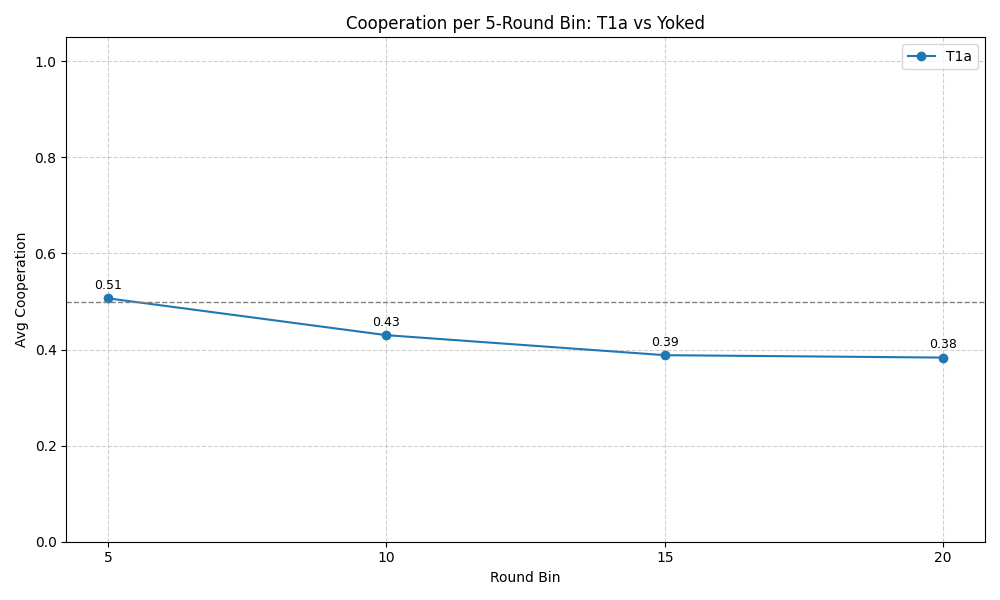
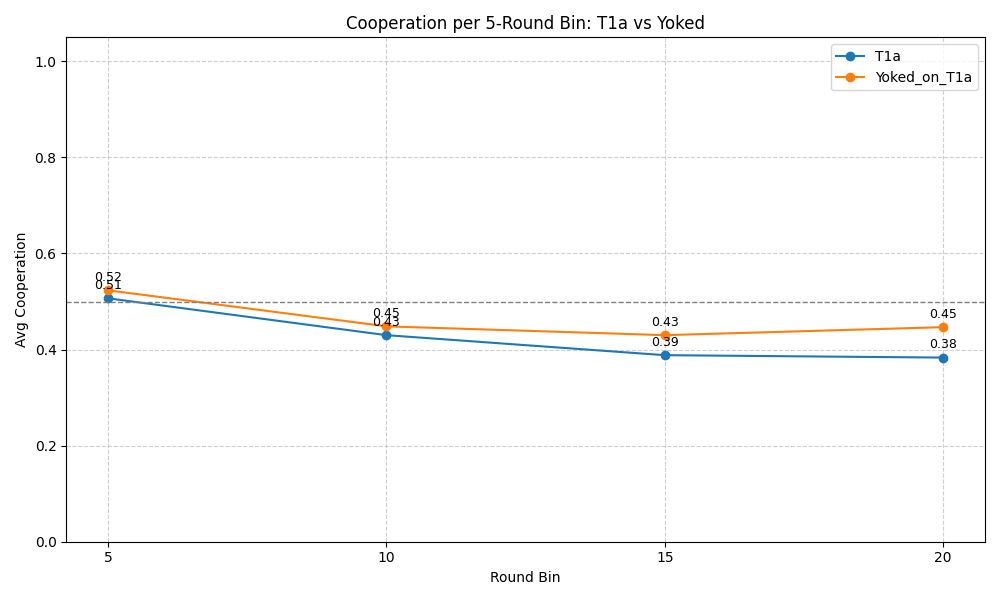
hfghghdd

Changed region(s): [[0.248, 0.51, 0.961, 0.57], [0.837, 0.06, 0.992, 0.15], [0.093, 0.45, 0.217, 0.51]]

diff --git a/final_analysis.py b/final_analysis.py
@@ -1,0 +1,274 @@
+from pathlib import Path
+import pandas as pd
+import numpy as np
+import matplotlib.pyplot as plt
+
+# === Configuration ===
+DATA_DIR = Path.home() / "Downloads" / "Stochastic Vote Data"
+TREATMENT_FILES = [
+    (DATA_DIR / "VR_C_r_part2_2025-07-28.csv", "OnlyRisk"),
+    (DATA_DIR / "VR_C_s_plus1_part2_2025-07-28.csv", "OnlySafe"),
+    (DATA_DIR / "VR_T1a_plus1_part2_2025-07-28.csv", "T1a"),
+    (DATA_DIR / "VR_T1b_part2_2025-07-28.csv", "T1b"),
+    (DATA_DIR / "VR_Yoked_T1a_all_apps_wide_2025-07-29.csv", "Yoked_on_T1a"),
+]
+
+# === 1. Load & tag datasets ===
+def load_and_tag(files):
+    df_list = []
+    for path, treatment in files:
+        temp = pd.read_csv(path)
+        temp['treatment'] = treatment
+        df_list.append(temp)
+    combined = pd.concat(df_list, ignore_index=True)
+    return combined, df_list
+
+# === 2. Filtering ===
+def filter_data(df, min_round=20):
+    df = df[df['player.action'].notna()]
+    # remove flagged participants
+    if 'player.remove' in df.columns:
+        flagged = df.loc[df['player.remove'] == 1, 'participant.code'].unique()
+        df = df[~df['participant.code'].isin(flagged)]
+    # drop if never reached min_round
+    if 'subsession.round_number' in df.columns:
+        df = df.groupby('participant.code').filter(lambda d: d['subsession.round_number'].max() >= min_round)
+    # ensure at least one non-na total_money
+    if 'player.total_money' in df.columns:
+        df = df.groupby('participant.code').filter(lambda d: d['player.total_money'].notna().any())
+    return df.reset_index(drop=True)
+
+# === 3. Feature engineering ===
+def engineer_features(df):
+    df = df.copy()
+    df['Cooperated'] = df['player.action'].map({'C': 1, 'D': 0})
+    if 'player.vote' in df.columns:
+        df['Chose_Risk'] = df['player.vote'].map({'Matrix B': 1, 'Matrix A': 0})
+    else:
+        df['Chose_Risk'] = np.nan
+    # 5-round bins
+    df['round_bin'] = ((df['subsession.round_number'] - 1) // 5 + 1) * 5
+    return df
+
+# === Plot helpers ===
+def annotate_bars(ax, dy=0.02, fmt="{:.2f}"):
+    for p in ax.patches:
+        ax.annotate(fmt.format(p.get_height()),
+                    (p.get_x() + p.get_width() / 2., p.get_height() + dy),
+                    ha='center', va='bottom', fontsize=9)
+
+
+def plot_line(df, group_cols, value_col, title, xlabel, ylabel,
+              bins=None, linestyle_map=None, save_path=None):
+    fig, ax = plt.subplots(figsize=(10, 6))
+    if bins:
+        df = df.copy()
+        df['bin'] = ((df['subsession.round_number'] - 1) // bins + 1) * bins
+        x_col = 'bin'
+        ax.axhline(0.5, color='gray', linestyle='--', linewidth=1)
+    else:
+        x_col = 'subsession.round_number'
+    for name, sub in df.groupby(group_cols):
+        series = sub.groupby(x_col)[value_col].mean()
+        label = ' – '.join(map(str, name)) if isinstance(name, tuple) else name
+        linestyle = '-' if not linestyle_map else None
+        if linestyle_map and isinstance(name, tuple):
+            game = name[group_cols.index('group.current_game')]
+            linestyle = linestyle_map.get(game, '-')
+        marker = 'o' if bins else None
+        ax.plot(series.index, series.values,
+                label=label, marker=marker, linestyle=linestyle)
+        for x, y in zip(series.index, series.values):
+            ax.text(x, y + 0.02, f"{y:.2f}", ha='center', fontsize=9)
+    ax.set_xlabel(xlabel)
+    ax.set_ylabel(ylabel)
+    ax.set_title(title)
+    ax.set_ylim(0, 1.05)
+    ax.grid(True, linestyle='--', alpha=0.6)
+    ax.legend()
+    plt.xticks(sorted(df[x_col].unique()))
+    plt.tight_layout()
+    if save_path:
+        plt.savefig(save_path)
+    plt.show()
+
+
+def plot_bar(df, index_cols, value_col, title, xlabel, ylabel,
+              save_path=None, color_map=None):
+    summary = df.groupby(index_cols)[value_col].mean().unstack(fill_value=0)
+    fig, ax = plt.subplots(figsize=(10, 6) if len(index_cols) > 1 else (8, 5))
+    summary.plot(kind='bar', color=color_map, edgecolor='black', ax=ax)
+    annotate_bars(ax)
+    ax.set_xlabel(xlabel)
+    ax.set_ylabel(ylabel)
+    ax.set_title(title)
+    ax.set_ylim(0, 1.05)
+    ax.grid(True, axis='y', linestyle='--', alpha=0.6)
+    plt.tight_layout()
+    if save_path:
+        plt.savefig(save_path)
+    plt.show()
+
+# === 4. Corrected Risk-Combo chart ===
+def plot_risk_combo(df, save_path=None):
+    # subset T1a/T1b with valid risk choice
+    sub = df[df['treatment'].isin(['T1a', 'T1b']) & df['Chose_Risk'].notna()].copy()
+    cols = ['group.id_in_subsession', 'subsession.round_number',
+            'participant.code', 'Chose_Risk', 'Cooperated',
+            'group.current_game', 'treatment']
+    sub = sub[cols]
+    # merge to align partner rows
+    partner = sub.rename(columns={
+        'participant.code': 'participant.code_partner',
+        'Chose_Risk': 'Chose_Risk_partner',
+        'Cooperated': 'Cooperated_partner',
+        'group.current_game': 'group.current_game_partner'
+    })
+    merged = sub.merge(partner,
+                       on=['group.id_in_subsession', 'subsession.round_number'],
+                       suffixes=('', '_p'))
+    merged = merged[merged['participant.code'] != merged['participant.code_partner']]
+    # classify combos
+    def classify(row):
+        s, p = row['Chose_Risk'], row['Chose_Risk_partner']
+        if s == 0 and p == 0: return 'NoRisk-NoRisk'
+        if s == 1 and p == 1: return 'Risk-Risk'
+        if s == 0 and p == 1: return 'NoRisk-Risk'
+        if s == 1 and p == 0: return 'Risk-NoRisk'
+        return 'Other'
+    merged['RiskCombo'] = merged.apply(classify, axis=1)
+    merged['Game'] = merged['group.current_game']  # same for both
+    # summary by combo, treatment, game
+    summary = merged.groupby(['RiskCombo', 'treatment', 'Game'])['Cooperated'] \
+                     .mean().reset_index()
+    combos = ['NoRisk-NoRisk', 'Risk-Risk', 'NoRisk-Risk', 'Risk-NoRisk']
+    treatments = ['T1a', 'T1b']
+    games = ['A', 'B']
+    width = 0.2
+    fig, ax = plt.subplots(figsize=(15, 6))
+    for i, combo in enumerate(combos):
+        for j, t in enumerate(treatments):
+            for k, g in enumerate(games):
+                row = summary[ (summary['RiskCombo'] == combo) &
+                               (summary['treatment'] == t) &
+                               (summary['Game'] == g) ]
+                if row.empty: continue
+                val = row['Cooperated'].values[0]
+                xpos = i + (j - 0.5) * width
+                hatch = '///' if g == 'B' else None
+                ax.bar(xpos, val, width,
+                       label=f"{t}" if (i == 0 and g == 'A') else "",
+                       edgecolor='black', hatch=hatch)
+                ax.text(xpos, val + 0.02, f"{val:.2f}", ha='center', fontsize=9)
+    ax.set_xticks(range(len(combos)))
+    ax.set_xticklabels(combos)
+    ax.set_ylabel('Mean Cooperation')
+    ax.set_title('Cooperation by Risk Combo and Treatment\n(Hatched = Game B)')
+    ax.set_ylim(0, 1.05)
+    ax.grid(True, axis='y', linestyle='--', alpha=0.6)
+    # custom legend
+    handles = [plt.Rectangle((0, 0), 1, 1, color='skyblue', edgecolor='black', label='T1a'),
+               plt.Rectangle((0, 0), 1, 1, color='orange', edgecolor='black', label='T1b'),
+               plt.Rectangle((0, 0), 1, 1, facecolor='white', hatch='///', edgecolor='black', label='Game B')]
+    ax.legend(handles=handles)
+    plt.tight_layout()
+    if save_path: plt.savefig(save_path)
+    plt.show()
+
+# === 5. Export to Excel ===
+def export_all(df, original_list, out_file="summary_analysis.xlsx"):
+    # overall means
+    overall = pd.DataFrame({
+        'Metric': ['Cooperated', 'Chose_Risk'],
+        'Mean': [df['Cooperated'].mean(), df['Chose_Risk'].mean()]
+    })
+    # participant counts
+    pc = df.groupby('treatment')['participant.code'].nunique().reset_index()
+    pc.columns = ['Treatment', 'Unique Participants']
+    # mean coop & risk
+    mc = df.groupby('treatment')['Cooperated'].mean().reset_index()
+    mr = df.dropna(subset=['Chose_Risk']).groupby('treatment')['Chose_Risk'].mean().reset_index()
+    # filtered selected
+    sel_cols = [
+        'participant.code', 'participant.label', 'subsession.round_number',
+        'player.total_money', 'player.investment',
+        'player.decision_1','player.decision_2','player.decision_3','player.decision_4',
+        'player.treatment','group.current_game','group.id_in_subsession',
+        'treatment','Cooperated','Chose_Risk'
+    ]
+    sel = df[sel_cols].copy()
+    # fill one-time fields
+    one_time = ['player.total_money','player.investment',
+                'player.decision_1','player.decision_2',
+                'player.decision_3','player.decision_4']
+    last = pd.concat(original_list, ignore_index=True) \
+             .sort_values('subsession.round_number') \
+             .groupby('participant.code', as_index=False).last()[['participant.code'] + one_time]
+    sel = sel.merge(last, on='participant.code', suffixes=('','_filled'))
+    for col in one_time:
+        sel[col] = sel[col].combine_first(sel[f"{col}_filled"])
+        sel.drop(columns=[f"{col}_filled"] , inplace=True)
+    sel.columns = (sel.columns
+                   .str.replace('participant\.', '', regex=True)
+                   .str.replace('subsession\.', '', regex=True)
+                   .str.replace('player\.', '', regex=True)
+                   .str.replace('group\.', '', regex=True))
+    # write
+    with pd.ExcelWriter(out_file) as writer:
+        overall.to_excel(writer, sheet_name='Overall Averages', index=False)
+        pc.to_excel(writer, sheet_name='Participant Counts', index=False)
+        mc.to_excel(writer, sheet_name='Mean Coop by Treatment', index=False)
+        mr.to_excel(writer, sheet_name='Mean Risk by Treatment', index=False)
+        df.to_excel(writer, sheet_name='Filtered Data', index=False)
+        sel.to_excel(writer, sheet_name='Filtered Selected', index=False)
+
+# === 6. Strategy export ===
+def export_strategy(files):
+    strategy_list = []
+    for path, treatment in files:
+        temp = pd.read_csv(path)
+        temp.columns = temp.columns.str.strip()
+        if all(col in temp.columns for col in ['player.strategy','player.factors','player.belief']):
+            sub = temp[['participant.code','player.strategy','player.factors','player.belief']].copy()
+            sub['treatment'] = treatment
+            strategy_list.append(sub)
+    if strategy_list:
+        pd.concat(strategy_list, ignore_index=True).to_excel(
+            "strategy_factors_belief.xlsx", index=False
+        )
+        print("Exported strategy_factors_belief.xlsx with available columns.")
+    else:
+        print("No datasets contained all of: player.strategy, player.factors, player.belief")
+
+# === 7. Main pipeline ===
+def main():
+    df, raw_list = load_and_tag(TREATMENT_FILES)
+    df = filter_data(df)
+    df = engineer_features(df)
+    # restrict for time-series plots
+    df20 = df[df['subsession.round_number'] <= 20]
+    # plots
+    plot_line(df20, ['treatment'], 'Cooperated',
+              'Cooperation Over Time by Treatment', 'Round Number', 'Mean Cooperation', save_path='cooperation_over_time.png')
+    plot_line(df20, ['treatment'], 'Cooperated',
+              'Cooperation per 5-Round Bin by Treatment', 'Round Bin', 'Avg Cooperation', bins=5, save_path='cooperation_binned_by_treatment.png')
+    plot_line(df20, ['treatment','group.current_game'], 'Cooperated',
+              'T1a vs Yoked_on_T1a: Cooperation by Game', 'Round Number', 'Mean Cooperation',
+              linestyle_map={'A':'-','B':'--'}, save_path='T1a_Yoked_by_game.png')
+    plot_bar(df, ['treatment'], 'Cooperated',
+             'Mean Cooperation by Treatment', '', 'Average Cooperation', save_path='mean_cooperation_by_treatment.png')
+    if 'group.current_game' in df.columns:
+        plot_bar(df[df['group.current_game'].notna()], ['treatment','group.current_game'], 'Cooperated',
+                 'Mean Cooperation by Treatment and Game', '', 'Average Cooperation', save_path='mean_coop_by_treatment_and_game.png')
+    if df['Chose_Risk'].notna().any():
+        plot_bar(df.dropna(subset=['Chose_Risk']), ['treatment'], 'Chose_Risk',
+                 'Mean Risk Preference by Treatment', '', 'Mean Chose Risk', save_path='mean_risk_by_treatment.png')
+        plot_line(df20.dropna(subset=['Chose_Risk']), ['treatment'], 'Chose_Risk',
+                  'Risk Choice Over Time by Treatment', 'Round Number', 'Mean Chose Risk', save_path='risk_choice_over_time.png')
+        plot_risk_combo(df20, save_path='coop_by_vote_combo_treatment.png')
+    # exports
+    export_all(df, raw_list)
+    export_strategy(TREATMENT_FILES)
+
+if __name__ == "__main__":
+    main()

diff --git a/VR_C_y_part2/__init__.py b/VR_C_y_part2/__init__.py
@@ -2,7 +2,6 @@ from otree.api import *
 from otree.api import Currency as c
 import random
 
-
 doc = """
 Cooperation under Agreed Risk Experiment
 """
@@ -16,55 +15,9 @@ class Constants(BaseConstants):
     # Payoff matrices:
 
     all_sequences = [
-        ["A", "B", "A", "A", "A", "B", "A", "A", "A", "B", "A", "A", "B", "A", "A", "A", "A", "A", "A", "A", "B", "A",
-         "A"],
-        ["A", "B", "B", "A", "A", "A", "B", "A", "A", "B", "A", "A", "A", "A", "A", "B", "A", "A", "A", "B", "A"],
-        ["B", "A", "A", "A", "A", "A", "A", "A", "A", "A", "A", "B", "B", "B", "B", "B", "B", "B", "B", "B", "B", "B",
-         "B"],
-        ["B", "A", "B", "A", "B", "B", "B", "B", "B", "A", "A", "B", "B", "A", "A", "B", "B", "A", "B", "B", "B", "A"],
-        ["B", "A", "B", "B", "A", "B", "B", "B", "B", "B", "B", "B", "B", "B", "B", "B", "B", "B", "B", "B", "B", "B",
-         "B", "B"],
-        ["B", "B", "A", "B", "A", "A", "A", "B", "A", "A", "A", "A", "A", "A", "A", "A", "A", "A", "A", "A", "A", "A",
-         "A", "A"],
-        ["B", "B", "A", "B", "A", "A", "A", "B", "B", "B", "A", "B", "B", "A", "A", "A", "A", "B", "B", "B", "A"],
-        ["B", "B", "A", "B", "A", "B", "A", "B", "B", "A", "B", "B", "B", "A", "A", "B", "A", "B", "B", "B", "B"],
-        ["B", "B", "A", "B", "A", "B", "B", "A", "B", "B", "B", "B", "B", "B", "B", "B", "B", "B", "B", "B", "B", "B"],
-        ["B", "B", "A", "B", "B", "A", "A", "A", "A", "A", "A", "A", "A", "A", "A", "A", "A", "A", "A", "A", "A"],
-        ["B", "B", "A", "B", "B", "A", "A", "A", "A", "A", "A", "A", "A", "A", "A", "A", "B", "A", "A", "A", "A", "A",
-         "A"],
-        ["B", "B", "A", "B", "B", "B", "A", "B", "B", "B", "A", "A", "A", "A", "B", "A", "A", "A", "A", "A", "A"],
-        ["B", "B", "A", "B", "B", "B", "B", "A", "B", "B", "B", "B", "B", "B", "B", "B", "A", "A", "A", "A", "B", "B",
-         "B", "B"],
-        ["B", "B", "B", "A", "A", "A", "A", "A", "B", "B", "B", "A", "A", "A", "A", "A", "A", "A", "A", "A", "A", "A",
-         "A", "A", "A", "A", "B"],
-        ["B", "B", "B", "A", "A", "B", "A", "B", "A", "B", "B", "B", "A", "B", "B", "A", "A", "B", "B", "B", "B"],
-        ["B", "B", "B", "A", "B", "A", "A", "A", "A", "B", "A", "A", "A", "A", "A", "A", "A", "A", "A", "A", "A", "A",
-         "A", "A", "A"],
-        ["B", "B", "B", "B", "A", "A", "A", "A", "A", "A", "A", "A", "A", "A", "A", "A", "A", "A", "A", "A", "A"],
-        ["B", "B", "B", "B", "A", "A", "B", "A", "A", "B", "B", "A", "B", "A", "A", "B", "A", "A", "B", "A", "B", "A",
-         "A"],
-        ["B", "B", "B", "B", "B", "A", "B", "A", "A", "A", "B", "B", "B", "A", "A", "A", "B", "A", "A", "A", "A", "B",
-         "A", "A", "B"],
-        ["B", "B", "B", "B", "B", "A", "B", "A", "B", "A", "B", "A", "B", "A", "B", "A", "A", "A", "A", "A", "A", "A"],
-        ["B", "B", "B", "B", "B", "A", "B", "B", "B", "A", "B", "B", "B", "B", "A", "A", "A", "B", "B", "B", "B", "B",
-         "B"],
-        ["B", "B", "B", "B", "B", "A", "B", "B", "B", "B", "B", "A", "B", "B", "B", "B", "A", "B", "A", "B", "B"],
-        ["B", "B", "B", "B", "B", "B", "A", "A", "A", "A", "A", "A", "A", "A", "A", "A", "A", "A", "A", "A", "A", "A",
-         "A", "A"],
-        ["B", "B", "B", "B", "B", "B", "B", "B", "A", "B", "B", "B", "B", "A", "A", "B", "A", "A", "A", "A", "B", "A",
-         "A"],
-        ["B", "B", "B", "B", "B", "B", "B", "B", "B", "A", "A", "A", "B", "B", "B", "B", "A", "A", "A", "B", "B", "A",
-         "B"],
         ["B", "B", "B", "B", "B", "B", "B", "B", "B", "A", "B", "B", "A", "B", "B", "A", "A", "B", "A", "A", "A", "A"],
-        ["B", "B", "B", "B", "B", "B", "B", "B", "B", "B", "B", "B", "B", "B", "B", "B", "B", "B", "B", "B", "B", "B",
-         "B"],
         ["B", "B", "B", "B", "B", "B", "B", "B", "B", "B", "B", "B", "B", "B", "B", "B", "B", "B", "B", "B", "B", "B"],
         ["B", "B", "B", "B", "B", "B", "B", "B", "B", "B", "B", "B", "B", "B", "B", "B", "B", "B", "B", "B", "B", "B"],
-        ["B", "B", "B", "B", "B", "B", "B", "B", "B", "B", "B", "B", "B", "B", "B", "B", "B", "B", "B", "B", "B"],
-        ["B", "B", "B", "B", "B", "B", "B", "B", "B", "B", "B", "B", "B", "B", "B", "B", "B", "B", "B", "B", "B"],
-        ["B", "B", "B", "B", "B", "B", "B", "B", "B", "B", "B", "B", "B", "B", "B", "B", "B", "B", "B", "B", "B"],
-        ["B", "B", "B", "B", "B", "B", "B", "B", "B", "B", "B", "B", "B", "B", "B", "B", "B", "B", "B", "B", "B"],
-
     ]
 
     matrix_A = {
@@ -90,7 +43,6 @@ class Constants(BaseConstants):
     A2bb = matrix_B[('D', 'D')][0]
 
 class Subsession(BaseSubsession):
-
 
     def group_by_arrival_time_method(self, waiting_players):
         eligible = [p for p in waiting_players if p.participant.vars.get('passed_comprehension') is True]

diff --git a/analysisall.py b/analysisall.py
@@ -8,7 +8,7 @@ treatment_files = [
     (r"C:\Users\TheodorosSaroglou\Downloads\Stochastic Vote Data\VR_C_s_plus1_part2_2025-07-28.csv", "OnlySafe"),
     (r"C:\Users\TheodorosSaroglou\Downloads\Stochastic Vote Data\VR_T1a_plus1_part2_2025-07-28.csv", "T1a"),
     (r"C:\Users\TheodorosSaroglou\Downloads\Stochastic Vote Data\VR_T1b_part2_2025-07-28.csv", "T1b"),
-    (r"C:\Users\TheodorosSaroglou\Downloads\Stochastic Vote Data\VR_Yoked_T1a_all_apps_wide_2025-07-29.csv", "Yoked_on_T1a"),
+    (r"C:\Users\TheodorosSaroglou\Downloads\Stochastic Vote Data\VR_Yoked_T1a_part2_2025-07-29.csv", "Yoked_on_T1a"),
 ]
 
 
